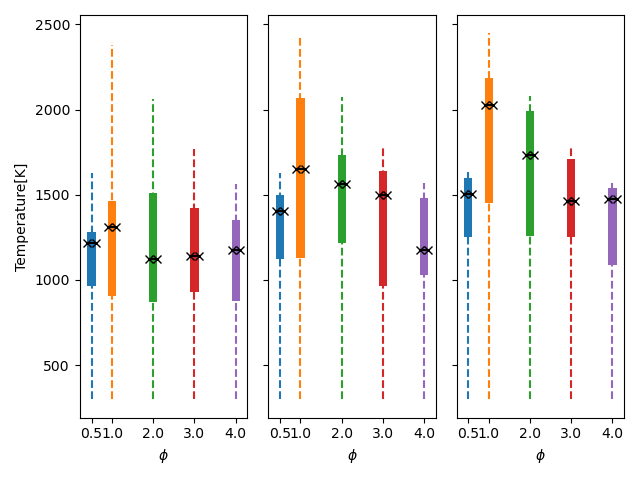
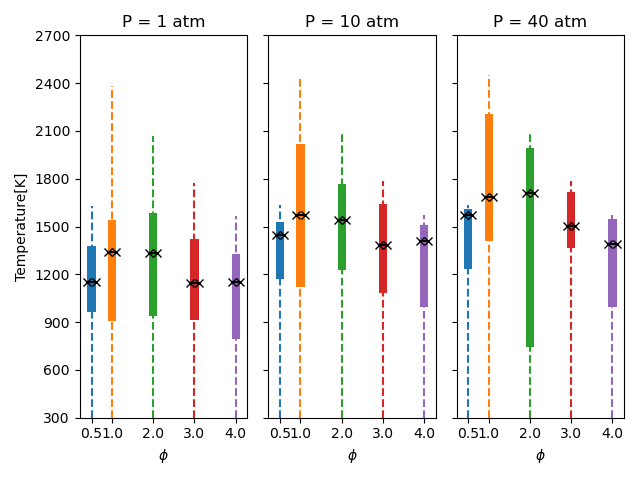
Finalizing Zhao Fig. 5
It looks fairly similar to the figure in the original paper (http://dx.doi.org/10.1002/kin.20080) except at 40 atm.

diff --git a/tests.py b/tests.py
@@ -90,6 +90,8 @@ def Zhao_fig_five():
     rxn_num = 0
     fig, axes = plt.subplots(nrows=1, ncols=3, sharey=True)
     axes[0].set_ylabel('Temperature[K]')
+    axes[0].set_ylim([300, 2700])
+    axes[0].set_yticks(np.arange(300, 3000, 300))
     # spacing = 0.3
     # width = (1 - spacing) / 5
 
@@ -99,12 +101,13 @@ def Zhao_fig_five():
         for phi in (0.5, 1, 2, 3, 4):
             mixture = {'H2': phi, 'O2': 0.5, 'N2': 0.5 * 3.76}
             _, window = sens.sensitivity(
-                mixture, 298, P, chemfile, rxn_num, mingrid=200, loglevel=1,
-                resolution=40, parallel=True, timeout=60)
+                mixture, 300, P, chemfile, rxn_num, mingrid=200, loglevel=1,
+                resolution=60, parallel=True, timeout=60)
             Tu, TL, Tm, TH, Tad = window
             ax.plot([phi, phi], [Tu, Tad], ls='--', marker='')
             ax.bar(phi, TH - TL, width=0.2, bottom=TL)
             ax.plot([phi-0.1, phi+0.1], [Tm, Tm], ls='-', marker='x', color='k')
+            ax.set_title('P = {} atm'.format(P))
     fig.tight_layout()
     plt.savefig(os.path.join('Demonstration Figures', 'Zhao Fig 5.png'))
     plt.close(fig)

diff --git a/T_dependent_sensitivity.py b/T_dependent_sensitivity.py
@@ -163,6 +163,14 @@ def sensitivity(mixture, T, P, chemfile, rxn_num, mingrid=200, loglevel=0,
     # If the perturbation starts closer to T instead of T+100, there is a
     # very strange error that causes the kernel to restart!
 
+    if parallel:
+        try:
+            __IPYTHON__  # This code is running in an ipython console - serialize!
+            parallel = False
+            print('Simulations performed in series. Run outside IPython for parallel operation.')
+        except NameError:
+            pass
+
     if not parallel:
         speeds = []
         for temperature in temperatures:
